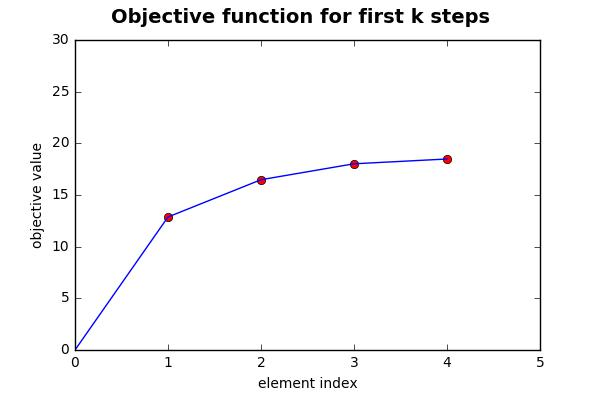
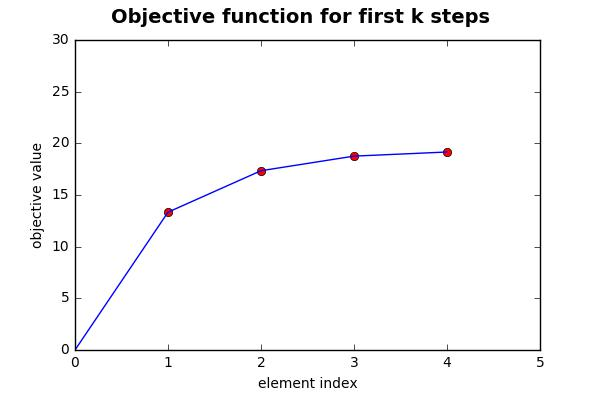
added two greedy approaches

diff --git a/imageproc/dumb.py b/imageproc/dumb.py
@@ -1,0 +1,97 @@
+# Pick L points randomly, then greedily select the best k for each category 
+
+import numpy as np
+import random
+from PIL import Image
+import matplotlib.pyplot as plt
+
+def dumb(l, k, featvec, catimg):
+
+	categories = catimg.keys()
+	imgList = featvec.keys()
+
+	def worker():
+		# randomly remain with only l elements
+		S = random.sample(imgList, l)
+
+		# now, to compute the cost of S, we'll greedily maximize our submodular functions based on our cluster set S
+		bestS = dict(zip([c for c in categories], [[] for c in categories]))
+
+		for c in categories:
+			picked = dict(zip([s for s in S], [False for s in S]))
+
+			for steps in range(k):
+				# initialize best with a valid entry
+				bestCost = -1
+				bestImg = -1
+
+				for s in S:
+					# try to see which elements maximizes the marginal gain
+					if picked[s] == False:
+						newS = bestS[c][:]
+						newS.append(s)
+
+						if computeCost(c, newS) > bestCost:
+							bestCost = computeCost(c, newS)
+							bestImg = s
+
+				if bestCost > -1:
+					bestS[c].append(bestImg)
+				else:
+					print "error"
+
+		# compute the objective value and output it
+		totalCost = 0
+		for c in categories:
+			totalCost = totalCost + computeCost(c, bestS[c])
+		print 'Obtained cost ', totalCost, ' for set ', S
+
+		# plotting
+		history = []
+		for step in range(k):
+			curTot = 0
+
+			for c in categories:
+				curTot = curTot + computeCost(c, bestS[c][:(step + 1)])
+
+			history.append(curTot)
+
+		fig = plt.figure()
+		fig.suptitle('Objective function for first k steps', fontsize=14, fontweight='bold')
+
+		ax = fig.add_subplot(111)
+		ax.set_xlabel('element index')
+		ax.set_ylabel('objective value')
+
+		ax.axis([0, k+1, 0, 30])
+
+		plt.plot([(i+1) for i in range(k)], history, 'ro')
+
+		newhist = [0]
+		newhist.extend(history)
+		plt.plot([i for i in range(k+1)], newhist, 'b')
+
+		plt.savefig('dumb_plot.png')
+		Image.open('dumb_plot.png').save('dumb_plot.jpg','JPEG')
+
+		return S
+
+	def computeCost(cat, S):
+		# we initialize with e0 = 0
+		t1 = 0
+		for img in catimg[cat]:
+			t1 = t1 + np.linalg.norm(featvec[img])
+
+		t2 = 0
+		for img in catimg[cat]:
+			# the value for e0
+			best = np.linalg.norm(featvec[img])
+
+			for s in S:
+				best = min(best, np.linalg.norm(featvec[img] - featvec[s]))
+
+			t2 = t2 + best
+
+		return (t1 - t2) / len(catimg[cat])
+
+	return worker()

diff --git a/imageproc/dumb2.py b/imageproc/dumb2.py
@@ -1,0 +1,97 @@
+# Pick best k for each category. From the union, take the elements that occur most often. Break ties randomly. 
+
+import numpy as np
+import random
+from PIL import Image
+import matplotlib.pyplot as plt
+
+from collections import Counter
+
+def dumb2(l, k, featvec, catimg):
+
+	categories = catimg.keys()
+	imgList = featvec.keys()
+
+	def worker():
+		S = []
+
+		# add to S the best k for each category
+		for c in categories:
+			picked = dict(zip([img for img in imgList], [False for img in imgList]))
+
+			curS = []
+
+			for times in range(k):
+				best = curS[:]
+
+				for img in imgList:
+					if picked[img] == False:
+						aux = curS[:]
+						aux.append(img)
+
+						if computeCost(c, aux) > computeCost(c, best):
+							best = aux[:]
+
+				curS = best[:]
+
+			S.extend(curS)
+
+		# pick the l elements that appear most. randomly deal with ties. 
+		mc = Counter(S).most_common(l)
+		S = []
+		for times in range(l):
+			S.append(mc[times][0])
+
+		# now, to compute the cost of S, we'll greedily maximize our submodular functions based on our cluster set S
+		bestS = dict(zip([c for c in categories], [[] for c in categories]))
+
+		for c in categories:
+			picked = dict(zip([s for s in S], [False for s in S]))
+
+			for steps in range(k):
+				# initialize best with a valid entry
+				bestCost = -1
+				bestImg = -1
+
+				for s in S:
+					# try to see which elements maximizes the marginal gain
+					if picked[s] == False:
+						newS = bestS[c][:]
+						newS.append(s)
+
+						if computeCost(c, newS) > bestCost:
+							bestCost = computeCost(c, newS)
+							bestImg = s
+
+				if bestCost > -1:
+					bestS[c].append(bestImg)
+				else:
+					print "error"
+
+		# compute the objective value and output it
+		totalCost = 0
+		for c in categories:
+			totalCost = totalCost + computeCost(c, bestS[c])
+		print 'Obtained cost ', totalCost, ' for set ', S
+
+		return S
+
+	def computeCost(cat, S):
+		# we initialize with e0 = 0
+		t1 = 0
+		for img in catimg[cat]:
+			t1 = t1 + np.linalg.norm(featvec[img])
+
+		t2 = 0
+		for img in catimg[cat]:
+			# the value for e0
+			best = np.linalg.norm(featvec[img])
+
+			for s in S:
+				best = min(best, np.linalg.norm(featvec[img] - featvec[s]))
+
+			t2 = t2 + best
+
+		return (t1 - t2) / len(catimg[cat])
+
+	return worker()

diff --git a/imageproc/greedy.py b/imageproc/greedy.py
@@ -12,6 +12,10 @@ def greedy(l, k, featvec, catimg):
 	def worker():
 		S = getClusters()
 
+		print "Our cluster set has ", len(S), " elements"
+		print "They are ", S
+		print ""
+
 		# now, to compute the cost of S, we'll greedily maximize our submodular functions based on our cluster set S
 		bestS = dict(zip([c for c in categories], [[] for c in categories]))
 
